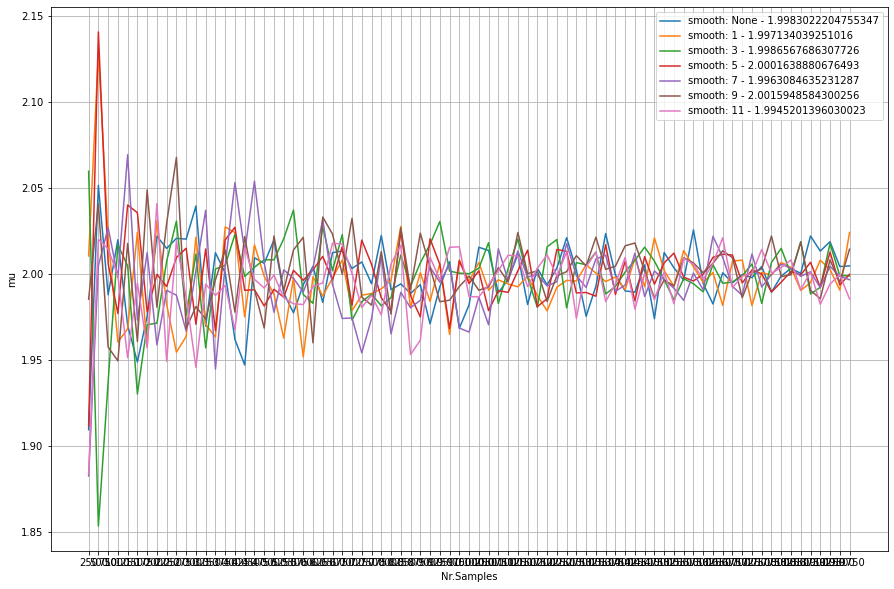
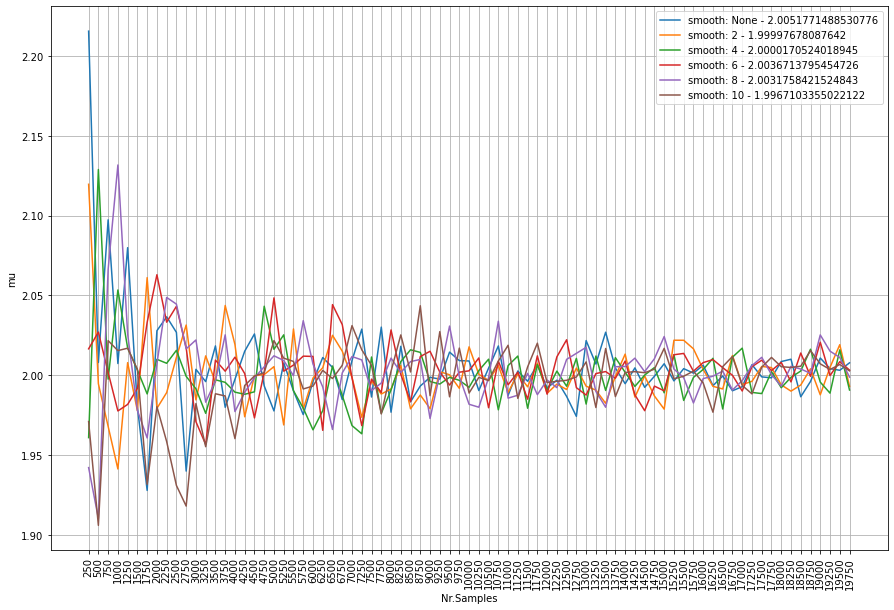
include new example of integer fitting

diff --git a/distfit/examples.py b/distfit/examples.py
@@ -50,14 +50,14 @@ model.plot()
 
 # %%
 # Create random data with varying number of samples
-import pandas as pd
-samples = np.arange(250, 20000, 250)
 
 #%%
 # Initialize model
 import matplotlib.pyplot as plt
 from tqdm import tqdm
-smooth_window=[None,1,3,5,7,9,11]
+import pandas as pd
+samples = np.arange(250, 20000, 250)
+smooth_window=[None,2,4,6,8,10]
 plt.figure(figsize=(15,10))
 
 for smooth in tqdm(smooth_window):
@@ -67,15 +67,18 @@ for smooth in tqdm(smooth_window):
     for s in samples:
         X = np.random.normal(0, 2, s)
         dist.fit_transform(X, verbose=0)
-        out.append([dist.model['loc'], dist.model['scale'], dist.model['name'], np.where(dist.summary['distr']=='norm')[0][0], s])
+        # out.append([dist.model['RSS'], dist.model['name'], np.where(dist.summary['distr']=='norm')[0][0], s])
+        out.append([dist.model['scale'], dist.model['name'], s])
 
-    df=pd.DataFrame(out, columns=['std','mu','name','norm_place','samples'])
+    df=pd.DataFrame(out, columns=['mu','name','samples'])
     ax=df['mu'].plot(grid=True, label='smooth: '+str(smooth) + ' - ' + str(df['mu'].mean()))
 
 ax.set_xlabel('Nr.Samples')
 ax.set_ylabel('mu')
 ax.set_xticks(np.arange(0,len(samples)))
-ax.set_xticklabels(samples.astype(str))
+ax.set_xticklabels(samples.astype(str), rotation = 90)
+# ax.set_ylim([0, 0.02])
+# ax.set_ylim([1.9, 2.1])
 ax.legend()
 
 # ax=df['std'].plot(grid=True)
@@ -83,6 +86,36 @@ ax.legend()
 # ax.set_ylabel('std')
 # ax.set_xticks(np.arange(0,len(samples)))
 # ax.set_xticklabels(samples.astype(str))
+
+#%%
+# Initialize model
+import matplotlib.pyplot as plt
+from tqdm import tqdm
+import pandas as pd
+samples = np.arange(250, 20000, 250)
+smooth_window=[None, 2,4,6,8,10]
+plt.figure(figsize=(15,10))
+
+for smooth in tqdm(smooth_window):
+    dist = distfit(distr='uniform', smooth=smooth)
+    # dist = distfit(smooth=smooth)
+    # Estimate paramters for the number of samples
+    out = []
+    for s in samples:
+        X = np.random.randint(0, 100, s)
+        dist.fit_transform(X, verbose=0)
+        out.append([dist.model['RSS'], dist.model['name'], np.where(dist.summary['distr']=='uniform')[0][0], s])
+
+    df = pd.DataFrame(out, columns=['RSS','name','out','samples'])
+    ax=df['RSS'].plot(grid=True, label='smooth: '+str(smooth) + ' - RSS: ' + str(df['RSS'].mean()))
+
+ax.set_xlabel('Nr.Samples')
+ax.set_ylabel('RSS')
+ax.set_xticks(np.arange(0,len(samples)))
+ax.set_xticklabels(samples.astype(str), rotation = 90)
+ax.set_ylim([0, 0.0005])
+ax.legend()
+
 
 # %% Fit and transform
 X = np.random.beta(5, 8, [100,100])
